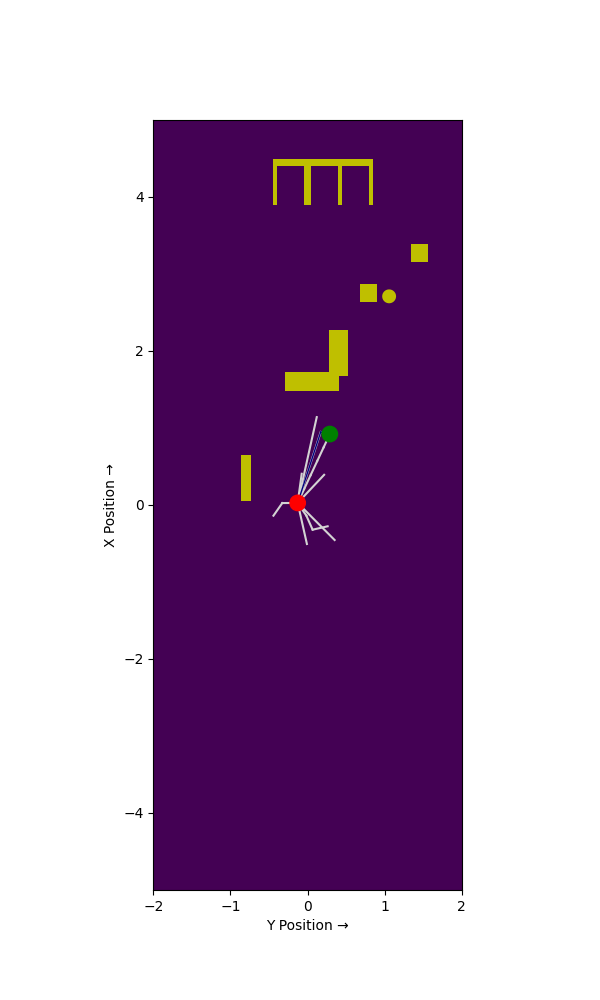
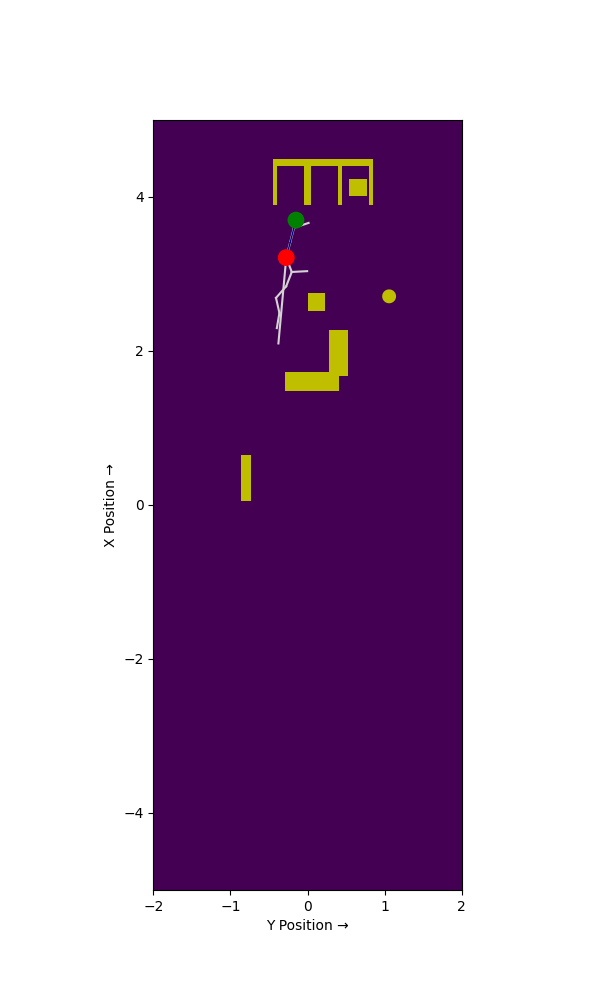
Enhance GoToTarget function with detailed docstring and clarify step size setting in RRTStarPlanner

diff --git a/4_main.py b/4_main.py
@@ -137,21 +137,44 @@ def turnToTarget(is_cube = True, curr_t_pos = t_pos):
     # time.sleep(1)
 
 def GoToTarget(is_cube = True, curr_t_pos = t_pos):
-    
+    """Drive the chaser toward a target position until close.
+
+    Args:
+        is_cube (bool): If True, use the tracked global `t_pos` as the
+            current target; otherwise use the provided `curr_t_pos`.
+        curr_t_pos (list): [x, y, z] fallback target position when
+            `is_cube` is False.
+
+    Behavior:
+        - If the distance to the target is >= 0.16 m, start moving forward.
+        - Continuously update streaming data and check distance.
+        - If within 0.14 m, stop and return.
+        - If heading error is large (> 0.5 rad), call `turnToTarget`
+          to re-orient before continuing forward.
+    """
+
+    # Only start driving if we're not already close to the target
     if dist(c_pos[0], curr_t_pos[0], c_pos[2], curr_t_pos[2]) >= 0.16:
         send_go_request()
         while True:
-            # is_flipped([t_pos1, t_pos2, t_pos3])
+            # Keep optitrack data fresh
             streaming_client.update_sync()
+
+            # If tracking a cube, always use the live global `t_pos`
             if is_cube:
                 curr_t_pos = t_pos
+
+            # If we got close enough, stop and exit
             if dist(c_pos[0], curr_t_pos[0], c_pos[2], curr_t_pos[2]) < 0.14:
-                send_stop_request()
+                send_stop_request() #the problem if we remove this line is harder to catch the target 
+                #1/3/2026
                 break
+
+            # Compute heading error and optionally re-orient
             angle = angle_between_points(c_pos, curr_t_pos)
             normalized_angle = normalize_angle(angle - c_rad)
             if abs(normalized_angle) > 0.5:
-                #send_stop_request()
+                # Large heading error: turn toward the target, then resume
                 turnToTarget(is_cube, curr_t_pos)
                 send_go_request()
 

diff --git a/path_algorithms/RRTStarPlanner.py b/path_algorithms/RRTStarPlanner.py
@@ -17,7 +17,8 @@ class RRTStarPlanner(object):
 
         # Set step size for extensions based on the environment size
         if planning_env.ylimit[1] < 100:
-            self.step_size = 0.2  # Small step size for small environments
+            self.step_size = 0.2  # Small step size for small environments(this what we use in the lab)
+            
         else:
             self.step_size = 10
 